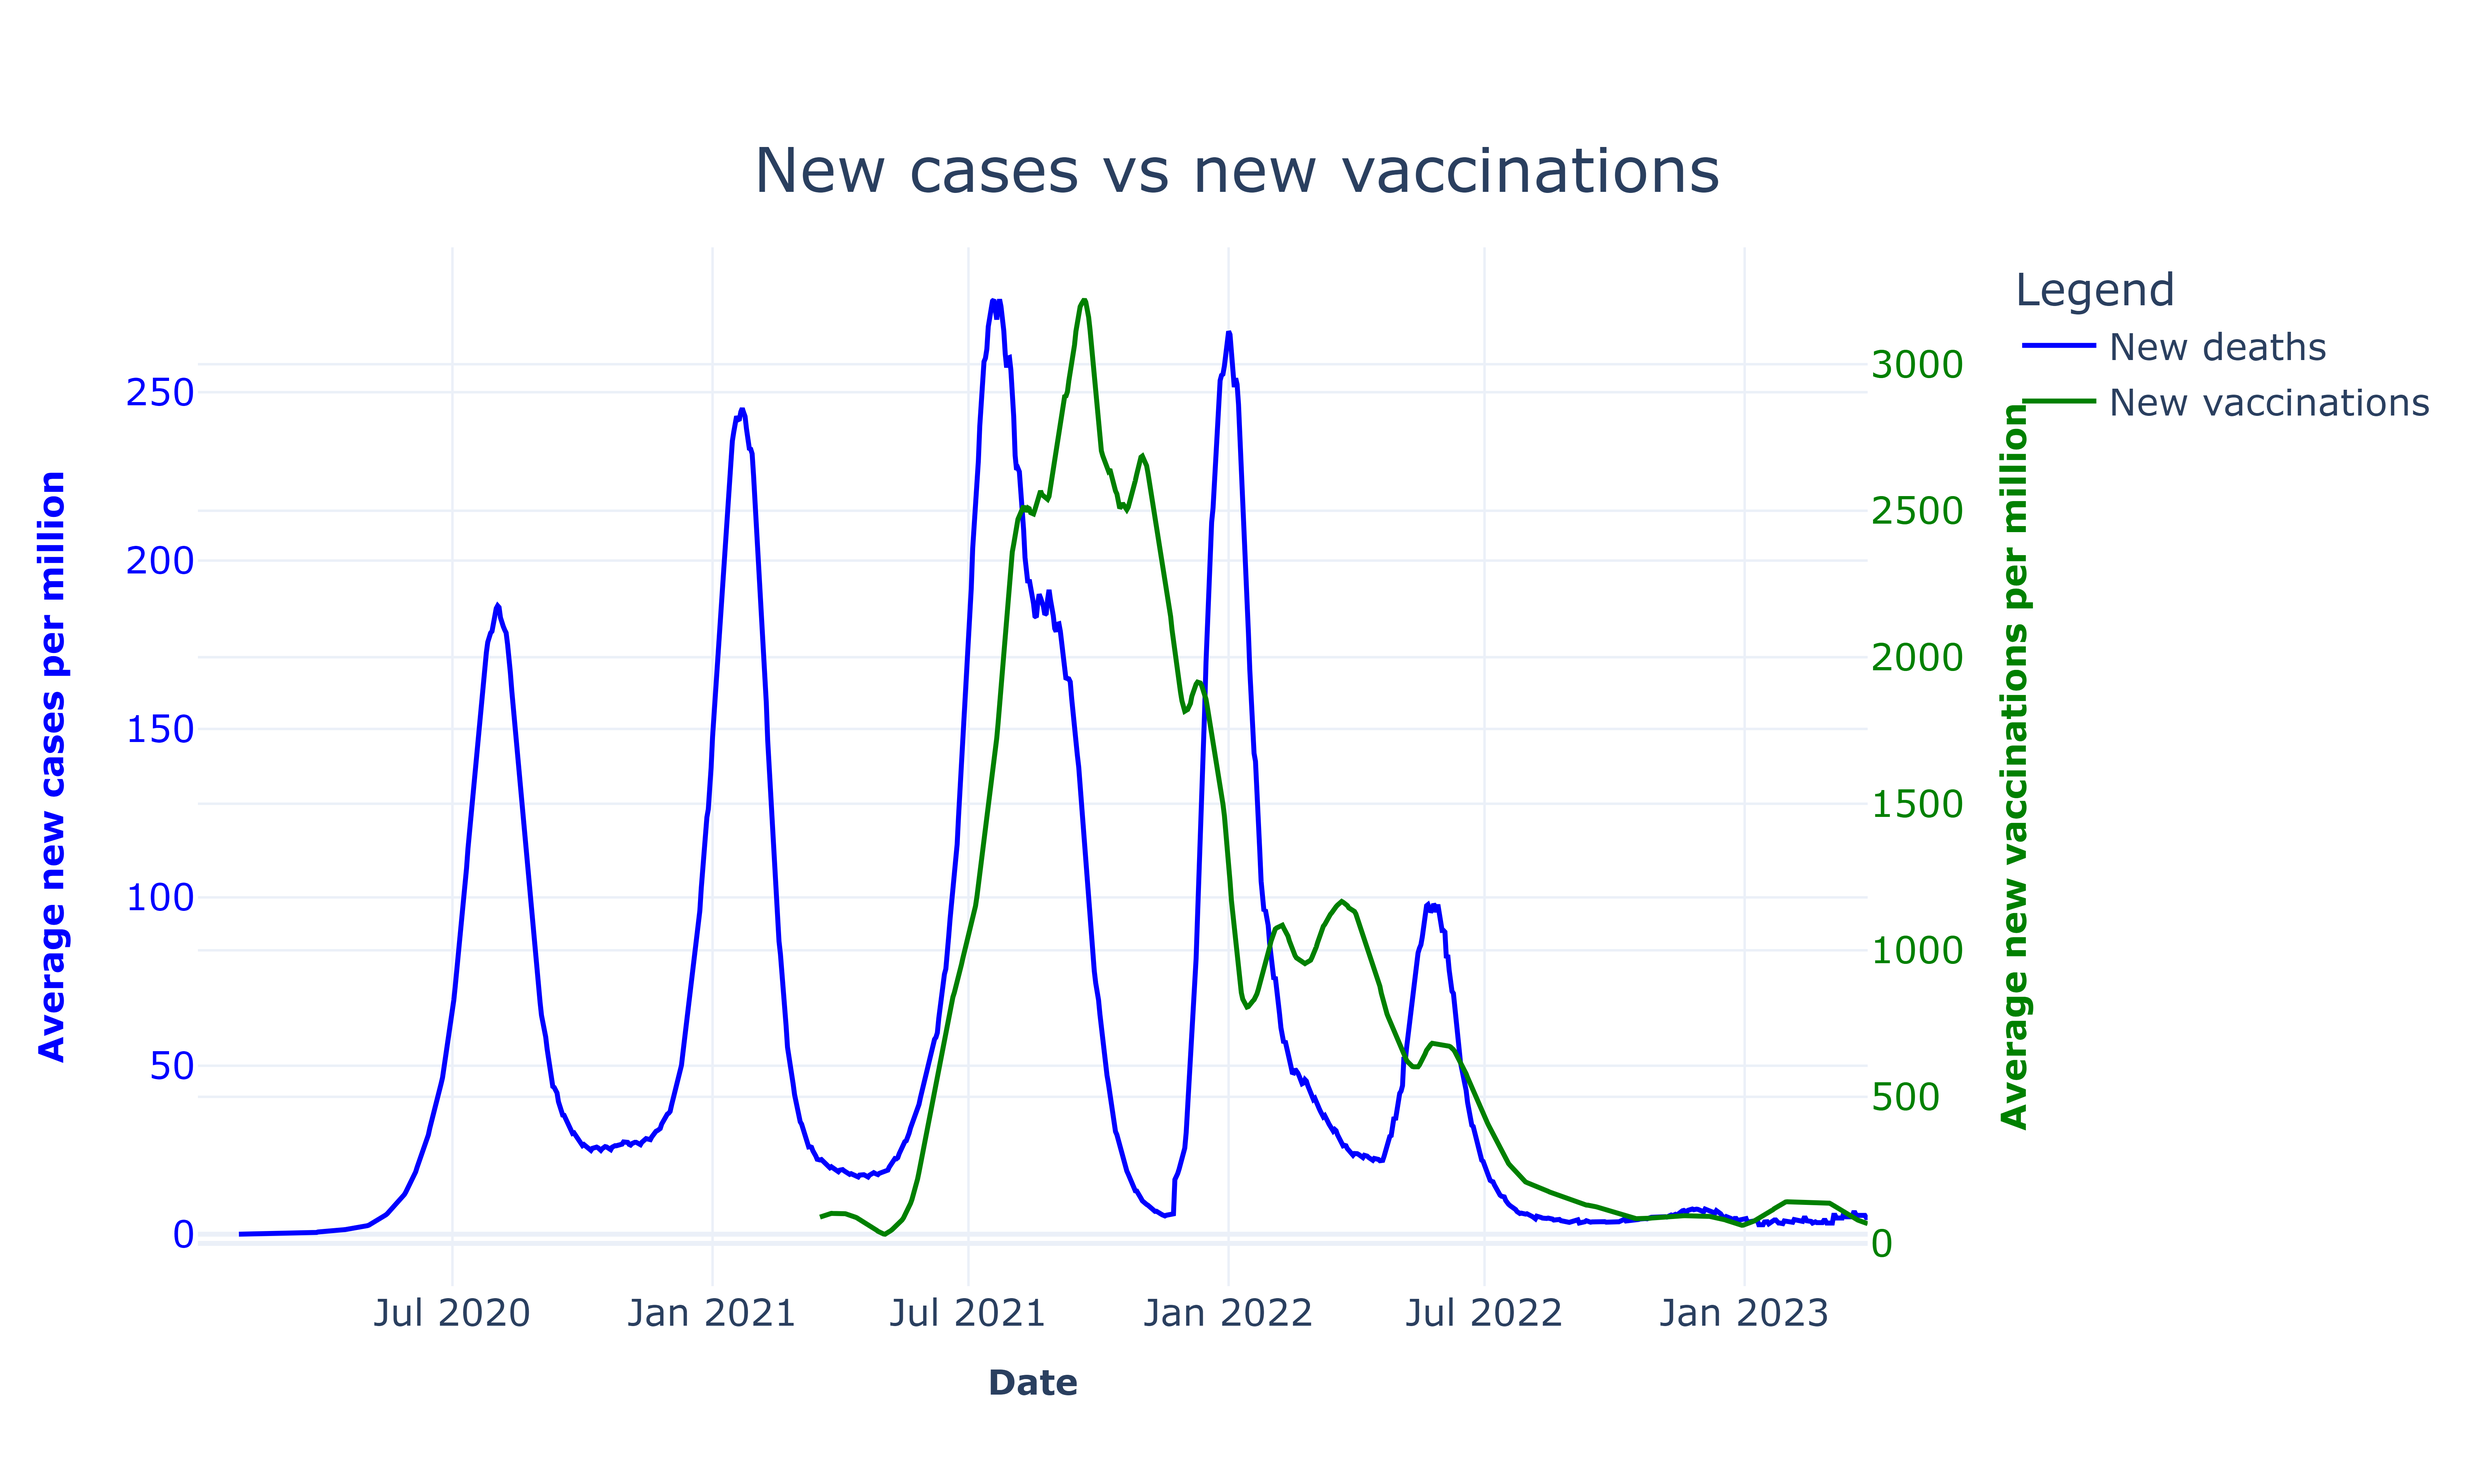
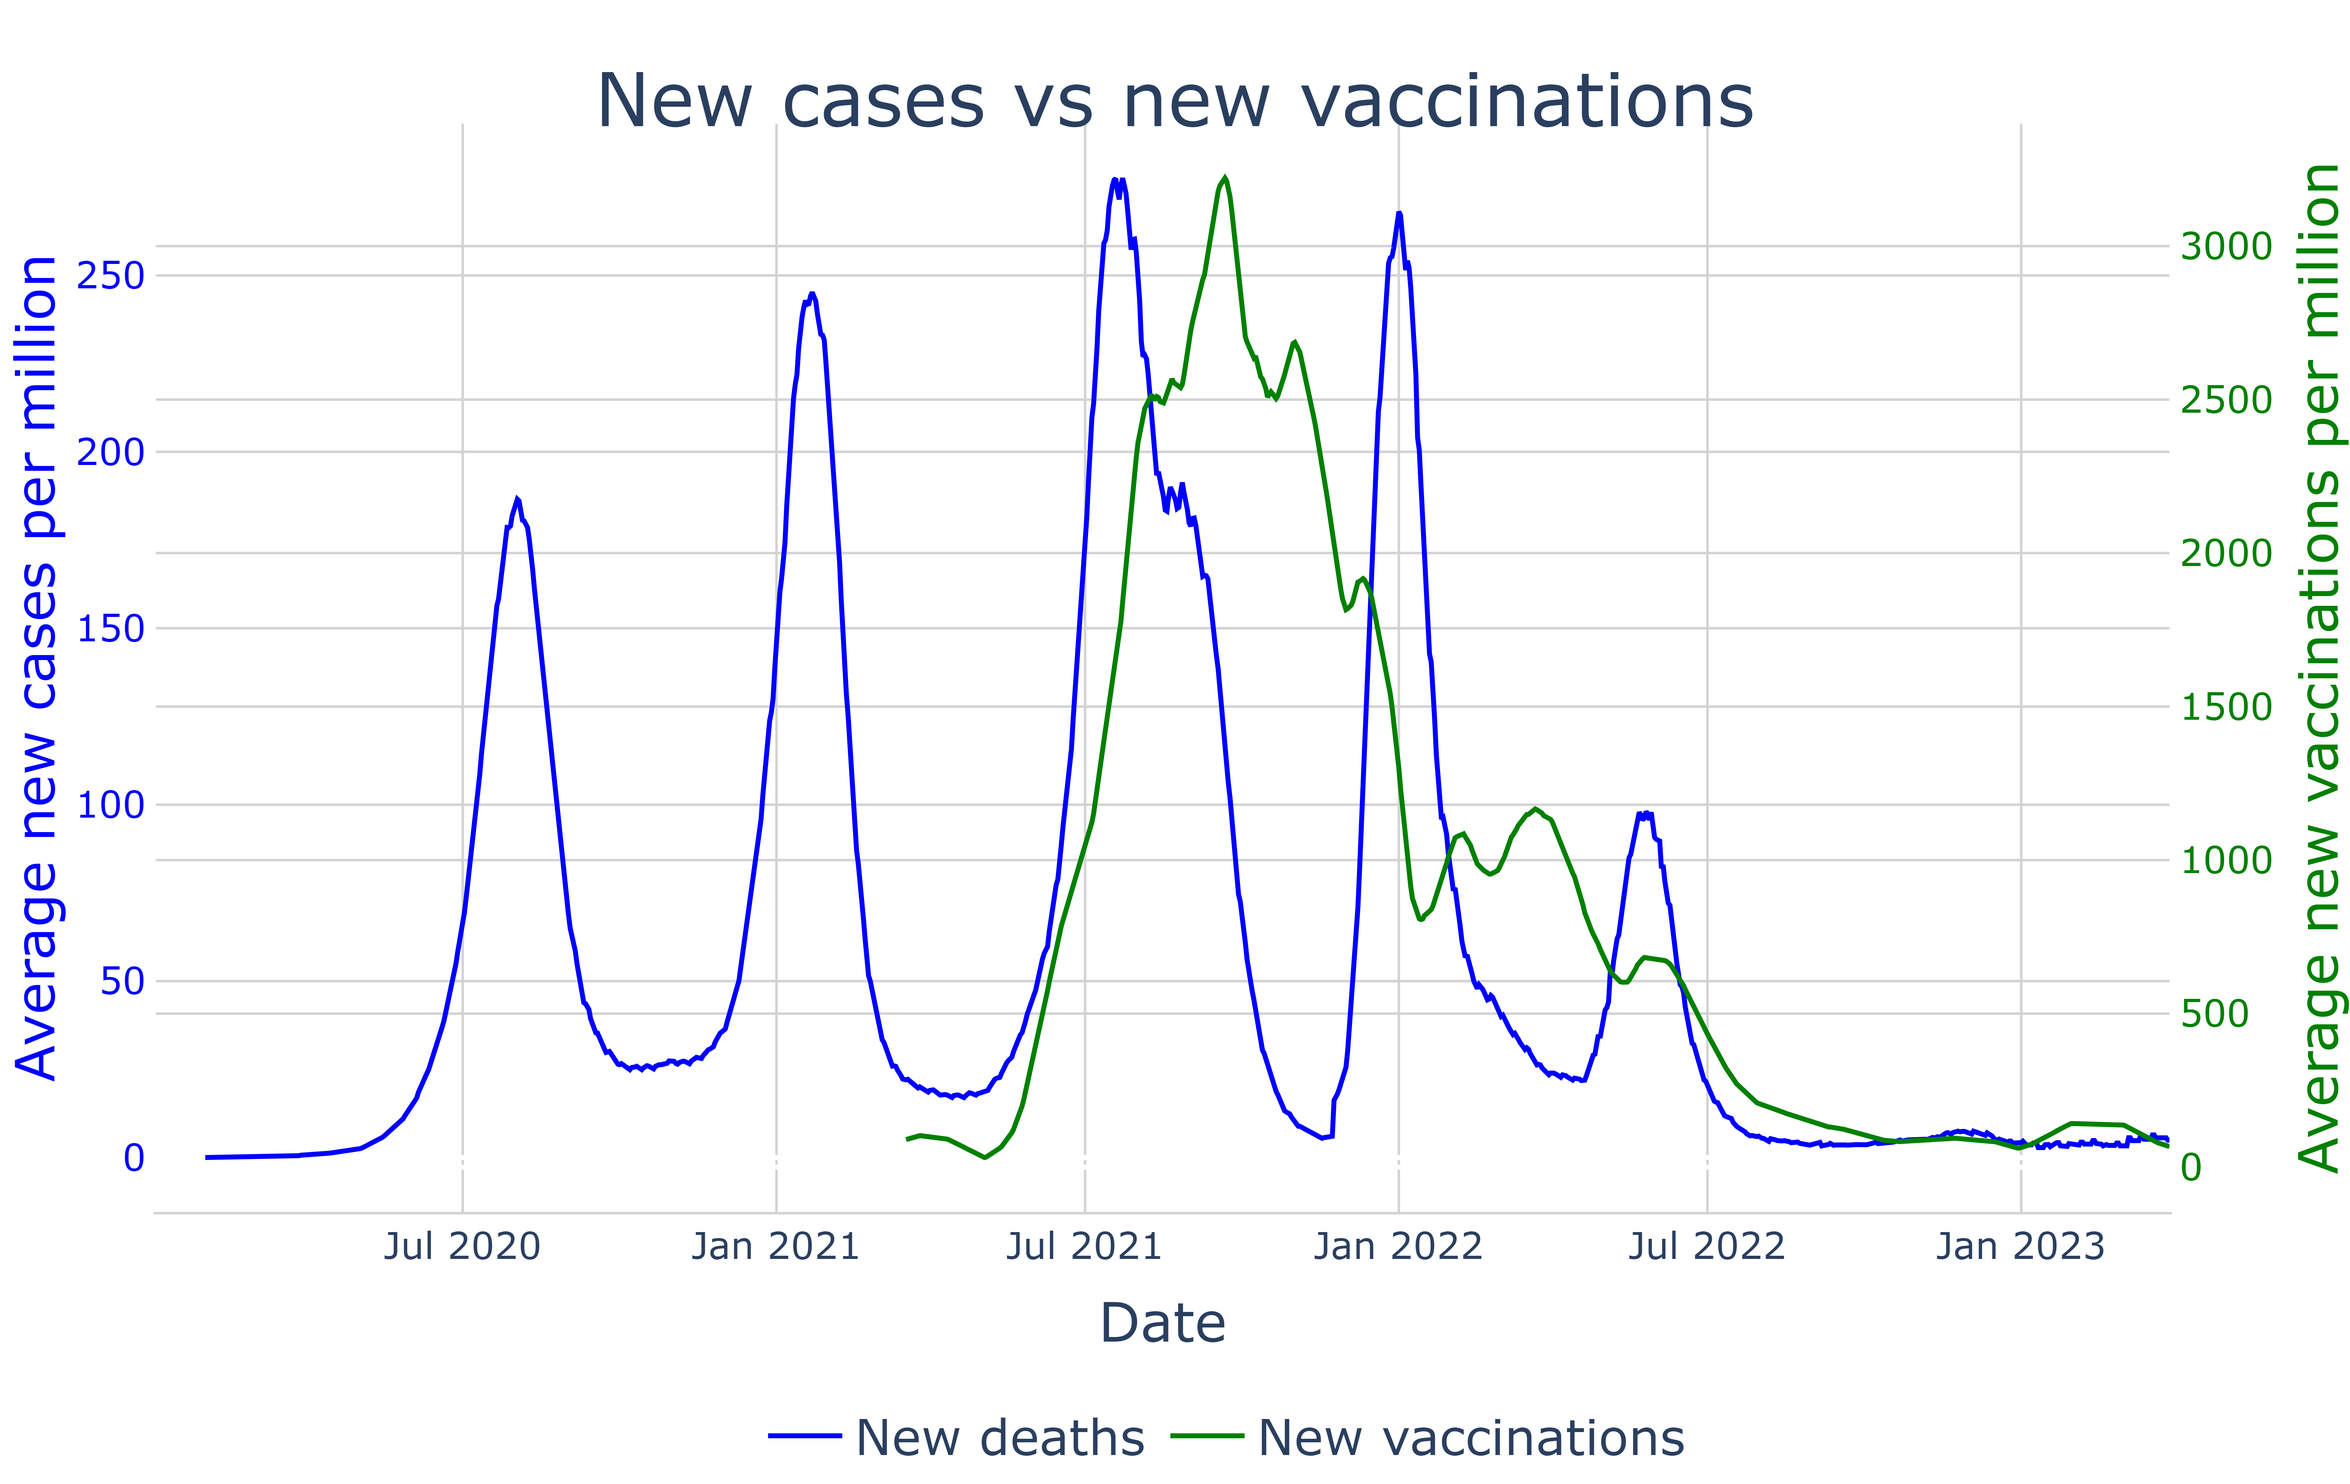
Small changes- labels sizes, placement etc.

diff --git a/scripts/stationary/line_cases.py b/scripts/stationary/line_cases.py
@@ -3,15 +3,15 @@
 Function which creates stationary line plot showing
 number of cases and vaccinations on two separate yaxes
 """
+from plotly.subplots import make_subplots
+import plotly.graph_objects as go
+import pandas as pd
 import sys
 import os
 sys.path.append(os.path.dirname(os.path.dirname(os.path.abspath(__file__))))
+
+
 from utils import get_country_averages, get_some_countries, save_stationary_plotly
-import pandas as pd
-import plotly.graph_objects as go
-from plotly.subplots import make_subplots
-
-
 # Load data, choose a subset and get the averages
 data = pd.read_csv("../data/new_covid_za.csv")
 data = get_some_countries(data, ["South Africa"]).fillna(method="ffill")
@@ -35,30 +35,39 @@ fig.add_trace(
 )
 
 # Modify plot layout
-fig.update_layout(hovermode="x", height=600, width=1000,
-                  template='plotly_white', paper_bgcolor='rgba(0,0,0,0)',
-                  plot_bgcolor='rgba(0,0,0,0)',
-                  title={'text': "New cases vs new vaccinations",
-                           'y': 0.9, 'x': 0.5, 'xanchor': 'center',
-                           'yanchor': 'top'},
-                  titlefont=dict(size=25),
-                  xaxis=dict(tickfont={"size": 15},
-                             titlefont={"color": "#673ab7"},
-                             title='<b>Date</b>'),
-                  legend=dict(font=dict(size=15)),
-                  legend_title_text='Legend')
+fig.update_layout(
+    height=600, width=950,
+    plot_bgcolor='rgba(0,0,0,0)',
+    autosize=True,
+    margin={'l': 0, 'r': 0, 'b': 50, 't': 50},
+    title={'text': "New cases vs new vaccinations",
+           'y': 0.95, 'x': 0.5, 'xanchor': 'center',
+           'yanchor': 'top'},
+    titlefont=dict(size=30),
+    xaxis=dict(tickfont={"size": 15},
+               title='Date'),
+    legend=dict(font=dict(size=20),
+                orientation="h",
+                y=-0.25, x= 0.5, xanchor='center', yanchor= 'bottom'
+                ),
+    font=dict(size=18),)
 
 # Add axis titles
 fig.update_yaxes(dict(tickfont={"size": 15},
-                      titlefont={"color": "#673ab7"},
-                      title='<b>Average new cases per million</b>'),
+                      title='Average new cases per million'),
                  secondary_y=False,
-                 color='blue')
+                 color='blue',
+                 gridcolor="lightgrey",
+                 showline=True,)
 fig.update_yaxes(dict(tickfont={"size": 15},
-                      titlefont={"color": "#673ab7"},
-                      title='<b>Average new vaccinations per million</b>'),
+                      title='Average new vaccinations per million'),
                  secondary_y=True,
-                 color='green')
+                 color='green',
+                 gridcolor="lightgrey",
+                 showline=True,)
+
+fig.update_xaxes(showline=True, linecolor="lightgrey",
+                 showgrid=True, gridcolor='lightgrey')
 
 
 save_stationary_plotly(fig, "line_cases")

diff --git a/scripts/stationary/line_deaths.py b/scripts/stationary/line_deaths.py
@@ -3,14 +3,14 @@
 Function which creates stationary line plot showing
 number of deaths and vaccinations on two separate yaxes
 """
+from plotly.subplots import make_subplots
+import plotly.graph_objects as go
+import pandas as pd
+
 import sys
 import os
 sys.path.append(os.path.dirname(os.path.dirname(os.path.abspath(__file__))))
 from utils import get_country_averages, get_some_countries, save_stationary_plotly
-import pandas as pd
-import plotly.graph_objects as go
-from plotly.subplots import make_subplots
-
 
 
 # Load data, choose a subset and get the averages
@@ -39,30 +39,38 @@ fig.add_trace(
     secondary_y=True)
 
 # Modify plot layout
-fig.update_layout(hovermode="x", height=600, width=1000,
-                  template='plotly_white', paper_bgcolor='rgba(0,0,0,0)',
+fig.update_layout(height=600, width=1000,
                   plot_bgcolor='rgba(0,0,0,0)',
+                  autosize=True,
+                  margin={'l': 0, 'r': 0, 'b': 50, 't': 50},
                   title={'text': "New deaths vs new vaccinations",
-                           'y': 0.9, 'x': 0.5,
-                           'xanchor': 'center', 'yanchor': 'top'},
-                  titlefont=dict(size=25),
+                         'y': 0.95, 'x': 0.5,
+                         'xanchor': 'center', 'yanchor': 'top'},
+                  titlefont=dict(size=30),
                   xaxis=dict(tickfont={"size": 15},
-                             titlefont={"color": "#673ab7"},
-                             title='<b>Date</b>'),
-                  legend=dict(font=dict(size=15)),
-                  legend_title_text='Legend')
+                             title='Date'),
+                  legend=dict(font=dict(size=20),
+                              orientation="h",
+                              y=-0.25, x=0.5, xanchor='center',
+                              yanchor='bottom'
+                              ),
+                  font=dict(size=18),)
 
 # Add axis titles
 fig.update_yaxes(dict(tickfont={"size": 15},
-                      titlefont={
-                          "color": "#673ab7"},
-                      title='<b>Average new cases per million</b>'),
+                      title='Average new cases per million'),
                  secondary_y=False,
-                 color='black')
+                 color='black',
+                 gridcolor="lightgrey",
+                 showline=True,)
 fig.update_yaxes(dict(tickfont={"size": 15},
-                      titlefont={"color": "#673ab7"},
-                      title='<b>Average new vaccinations per million</b>'),
-                 secondary_y=True, color='green')
+                      title='Average new vaccinations per million'),
+                 secondary_y=True, color='green',
+                 gridcolor="lightgrey",
+                 showline=True)
+
+fig.update_xaxes(showline=True, linecolor="lightgrey",
+                 showgrid=True, gridcolor='lightgrey')
 
 
 save_stationary_plotly(fig, "line_death")

diff --git a/scripts/stationary/provinces_population_size.py b/scripts/stationary/provinces_population_size.py
@@ -45,7 +45,7 @@ fig.update_layout(
     title={
         'text': "Population density in South African provinces",
         'x': 0.5,
-        'y': 0.92,
+        'y': 0.95,
         'xanchor': 'center',
         'yanchor': 'top',
         "font": {"size": 25}},
@@ -61,5 +61,16 @@ fig.update_layout(
                       size=15,
                       color='black'))
 )
+
+# Change plot margins
+fig.update_layout(
+    autosize=True,
+    margin={'l': 0, 'r': 0, 'b': 0, 't': 50},
+    plot_bgcolor='rgba(0,0,0,0)'
+)
+
+fig.update_yaxes(showline=True, linecolor='black', gridcolor='lightgrey')
+fig.update_xaxes(showline=True, linecolor='black', showgrid=False)
+
 
 save_stationary_plotly(fig, "provinces_density")

diff --git a/scripts/stationary/ZA_neighbors.py b/scripts/stationary/ZA_neighbors.py
@@ -73,6 +73,10 @@ fig.update_layout(
 fig.update_layout(
     autosize=True,
     margin={'l': 0, 'r': 0, 'b': 0, 't': 50},
+    plot_bgcolor='rgba(0,0,0,0)'
 )
+
+fig.update_yaxes(showline=True, linecolor='black', gridcolor='lightgrey')
+fig.update_xaxes(showline=True, linecolor='black', showgrid=False)
 
 save_stationary_plotly(fig, "ZA_neighbors")
